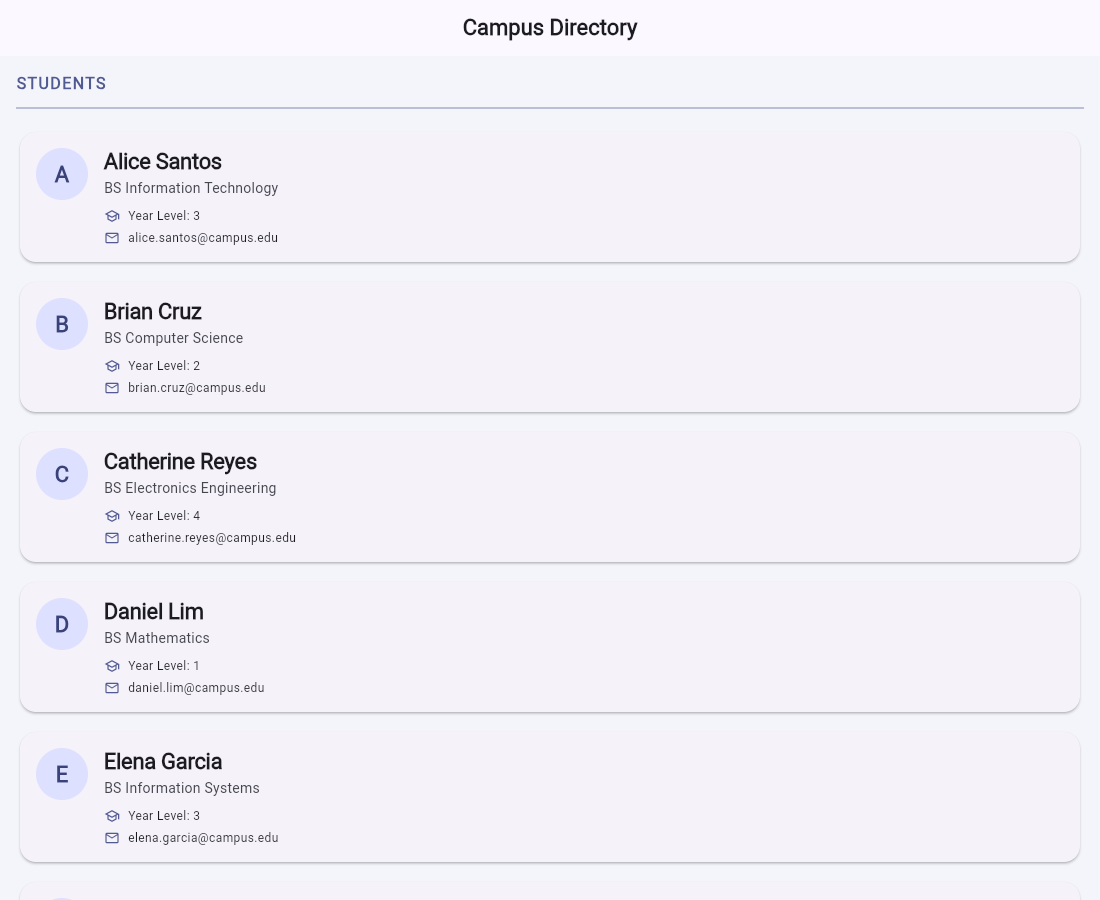
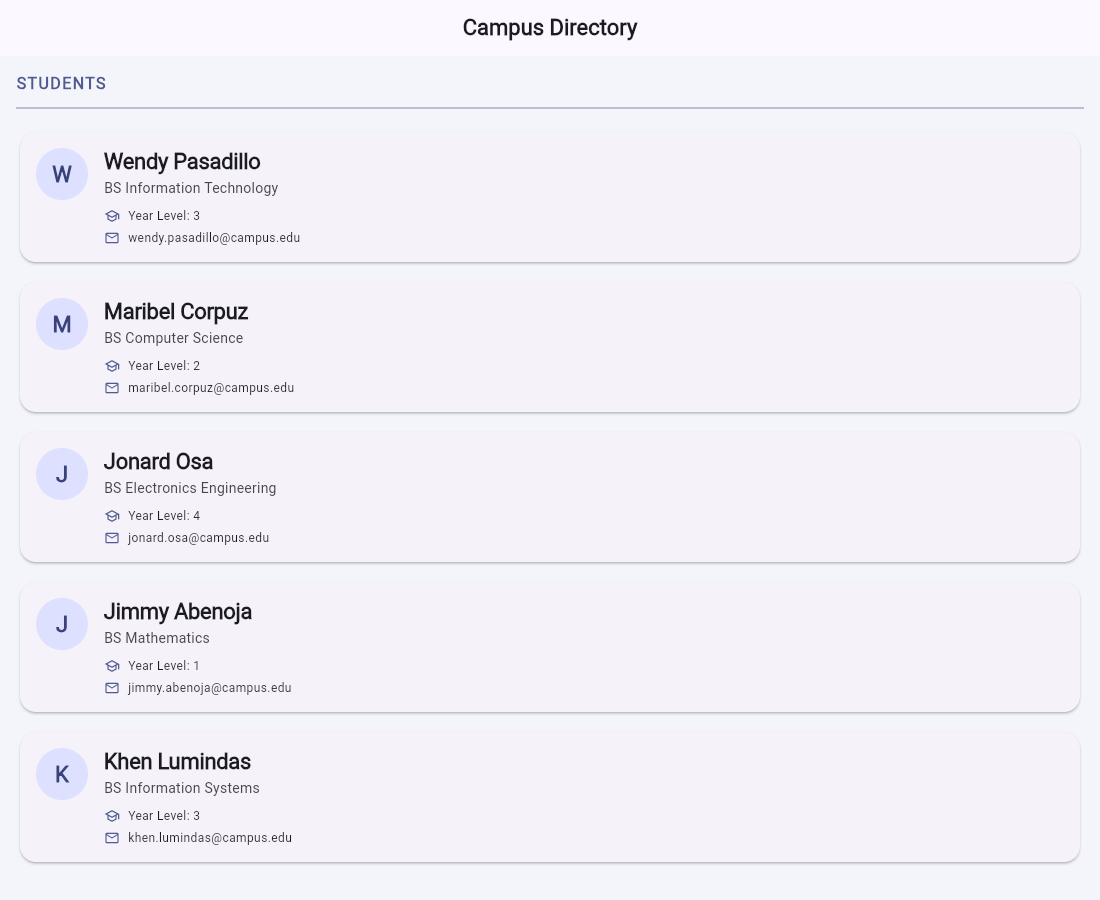
Update student names and screenshot

diff --git a/lib/main.dart b/lib/main.dart
@@ -20,40 +20,34 @@ class Student {
 
 const List<Student> students = [
   Student(
-    name: 'Alice Santos',
+    name: 'Wendy Pasadillo',
     course: 'BS Information Technology',
     yearLevel: 3,
-    email: 'alice.santos@campus.edu',
+    email: 'wendy.pasadillo@campus.edu',
   ),
   Student(
-    name: 'Brian Cruz',
+    name: 'Maribel Corpuz',
     course: 'BS Computer Science',
     yearLevel: 2,
-    email: 'brian.cruz@campus.edu',
+    email: 'maribel.corpuz@campus.edu',
   ),
   Student(
-    name: 'Catherine Reyes',
+    name: 'Jonard Osa',
     course: 'BS Electronics Engineering',
     yearLevel: 4,
-    email: 'catherine.reyes@campus.edu',
+    email: 'jonard.osa@campus.edu',
   ),
   Student(
-    name: 'Daniel Lim',
+    name: 'Jimmy Abenoja',
     course: 'BS Mathematics',
     yearLevel: 1,
-    email: 'daniel.lim@campus.edu',
+    email: 'jimmy.abenoja@campus.edu',
   ),
   Student(
-    name: 'Elena Garcia',
+    name: 'Khen Lumindas',
     course: 'BS Information Systems',
     yearLevel: 3,
-    email: 'elena.garcia@campus.edu',
-  ),
-  Student(
-    name: 'Francis Mendoza',
-    course: 'BS Computer Engineering',
-    yearLevel: 2,
-    email: 'francis.mendoza@campus.edu',
+    email: 'khen.lumindas@campus.edu',
   ),
 ];
 
